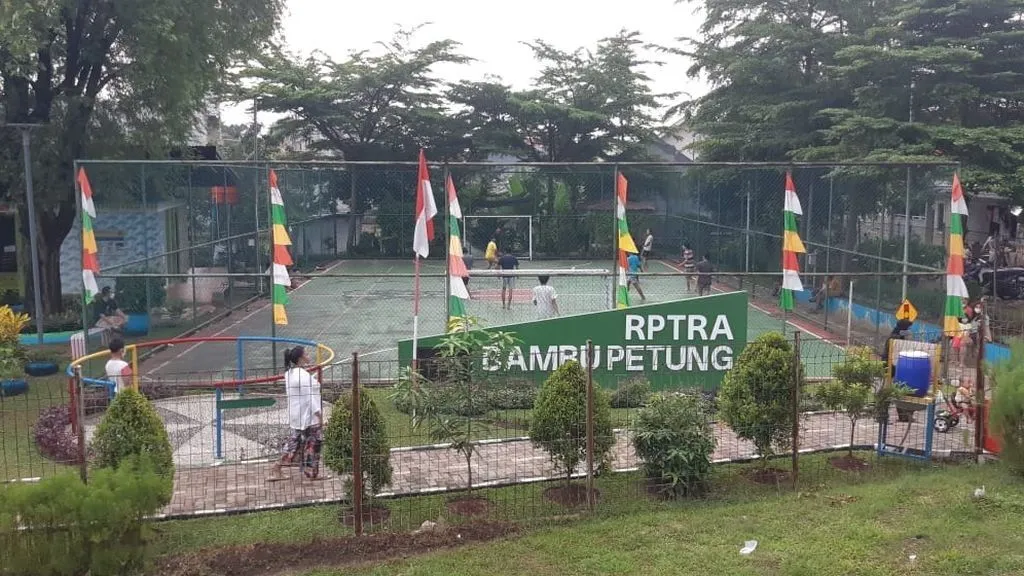
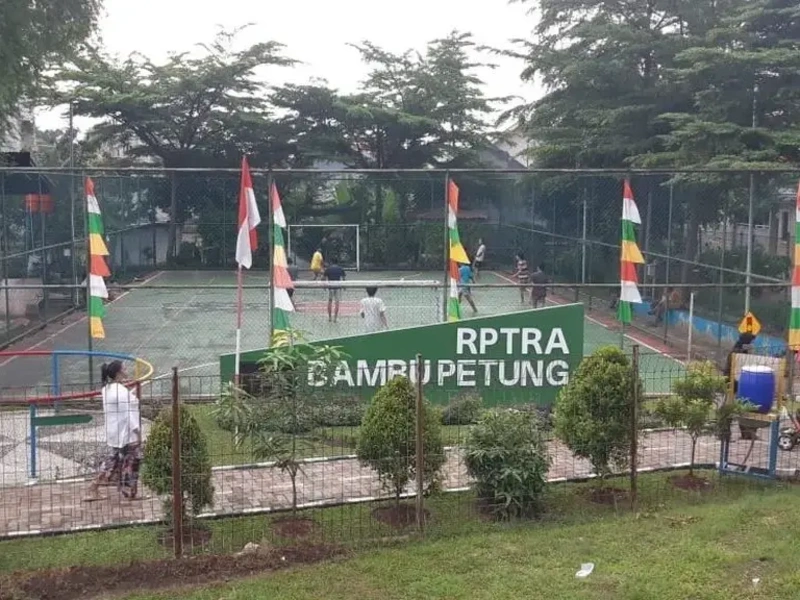
1. Menghapus data Sekretariat Student Care dari variable places di script.js 2. Menambahkan data RPTRA Seruni dan RPTRA Penjaringan Indah ke variable places di script.js 3. Mengoptimasi foto agar lebh baik

diff --git a/src/javascript/script.js b/src/javascript/script.js
@@ -276,10 +276,17 @@ const places = [
   },
 
   {
-    name: "Sekretariat Student Care",
+    name: "RPTRA Seruni",
     address:
-      "Jl. B II No.30 8, RT.8/RW.7, Ps. Minggu, Kota Jakarta Selatan, Daerah Khusus Ibukota Jakarta 12520",
-    location: "XHra2rXG3BXcMbfq8",
+      "Gang Haji Saibun, RT.8/RW.9, Jati Padang, Pasar Minggu, RT.8/RW.9, Jati Padang, Ps. Minggu, Kota Jakarta Selatan, Daerah Khusus Ibukota Jakarta 12540",
+    location: "Hy24YAhKxA4S4wu1A",
+  },
+
+  {
+    name: "RPTRA Penjaringan Indah",
+    address:
+      "Raya Jl. Bandengan Utara No.80 9, RT.9/RW.16, Penjaringan, Kec. Penjaringan, Jkt Utara, Daerah Khusus Ibukota Jakarta 14440",
+    location: "xv7nrdpkqNyezhB19",
   },
 ];
 places.forEach((place) => {
